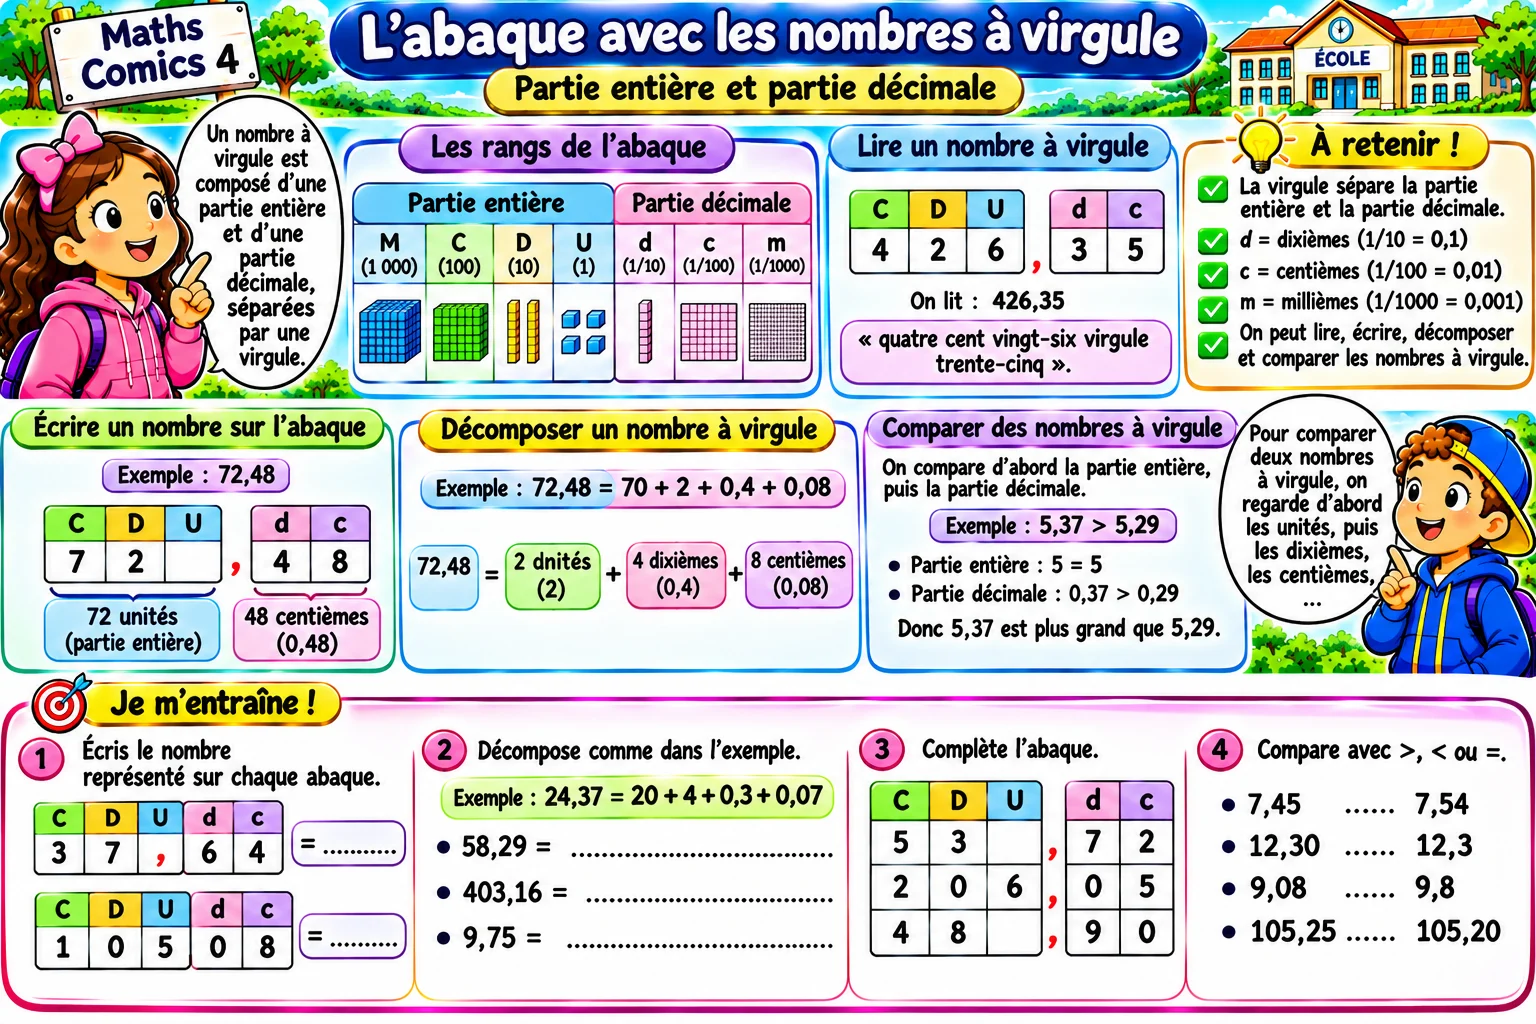
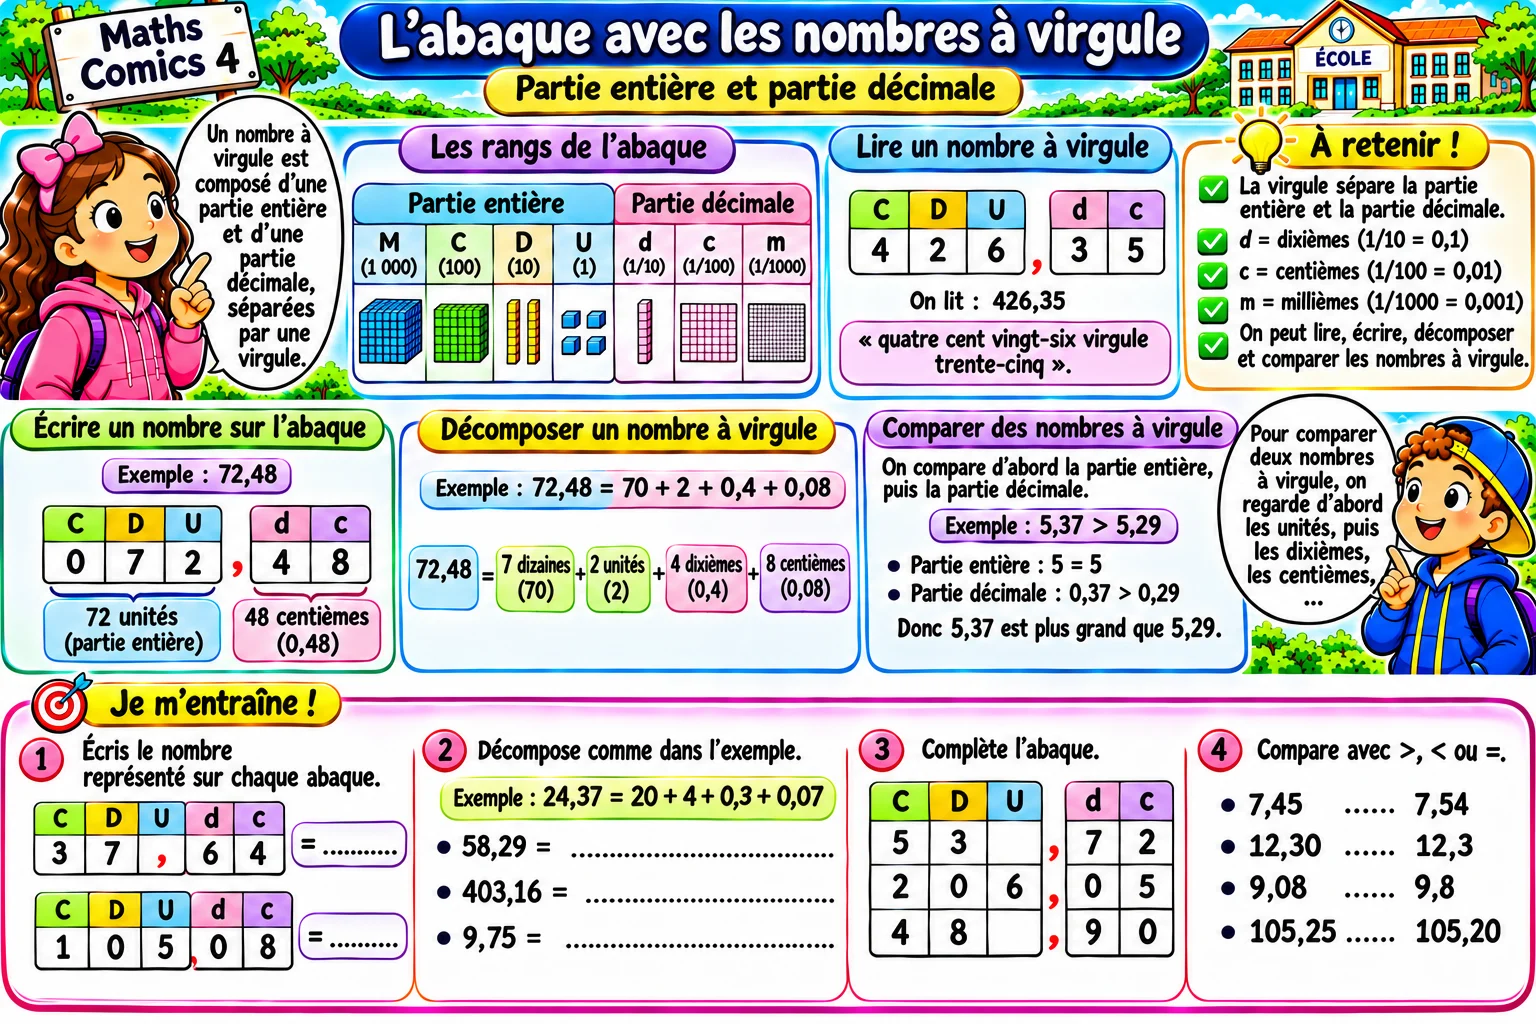
Sauvegarde source : BD unités
Claude-Session: https://claude.ai/code/session_01WScze2HsHiPfQiL7adKopW

Changed region(s): [[0.0, 0.0, 1.0, 1.0], [0.8125, 0.7812, 0.875, 0.875], [0.8125, 0.9062, 0.8438, 0.9375]]

diff --git a/soumaya-academy/src/js/grandeurs.js b/soumaya-academy/src/js/grandeurs.js
@@ -6,6 +6,7 @@ import * as S from './save.js';
 import * as Sfx from './sfx.js';
 import * as Voice from './voice.js';
 import { burst, shuffle, ri } from './workshop.js';
+import * as BD from './bd.js';
 
 const star = (n = 1) => { const b = S.get(); b.bonusStars = (b.bonusStars || 0) + n; b.coins += 2 * n; S.save(); };
 const ST = () => { const b = S.get(); b.abaqueG = b.abaqueG || { done: 0 }; return b.abaqueG; };
@@ -459,11 +460,25 @@ function astuces(body, talk) {
   talk('Voici les astuces : un seul chiffre par colonne, le chiffre des unités dans la colonne de l’unité, puis on déplace la virgule ou on ajoute des zéros.');
 }
 
+
+// ---------- la BD « Maths Comics 4 – Les unités de mesure » (image fournie par Papa) ----------
+const BD_UM = ['On mesure des longueurs, des masses et des capacités avec des unités. Les unités sont rangées dans un tableau : chaque passage d’une colonne à l’autre multiplie ou divise par 10 !',
+  'La règle à retenir : vers la droite, on multiplie par 10, l’unité devient 10 fois plus petite. Vers la gauche, on divise par 10, l’unité devient 10 fois plus grande.',
+  'La longueur : kilomètre, hectomètre, décamètre, mètre, décimètre, centimètre, millimètre. 1 mètre égale 100 centimètres. 1 kilomètre égale 1 000 mètres.',
+  'La masse : kilogramme, hectogramme, décagramme, gramme, décigramme, centigramme, milligramme. 1 kilogramme égale 1 000 grammes.',
+  'La capacité : kilolitre, hectolitre, décalitre, litre, décilitre, centilitre, millilitre. 1 litre égale 100 centilitres.',
+  'Des exemples : 3,5 mètres égale 350 centimètres. 2 400 millimètres égale 2,4 mètres. 4,2 kilogrammes égale 4 200 grammes. 750 grammes égale 0,75 kilogramme. 3 litres égale 300 centilitres. 450 millilitres égale 0,45 litre.'];
+function bdUnites(body, talk) {
+  BD.show(body, talk, { img: 'assets/bd/comics4-unites-mesure.webp', title: 'Maths Comics 4 – Les unités de mesure', alt: 'BD : les tableaux de longueur, de masse et de capacité, la règle × 10 et ÷ 10 et des conversions', lines: BD_UM,
+    question: ['Je m’entraîne : 5 m ; 720 cm ; 2,5 kg ; 4 500 g ; 6 L ; 350 mL. Et vrai ou faux : 1,2 m = 120 cm ; 3 kg = 300 g ; 1 L = 1 000 mL ; 50 cL = 0,5 L ; 4 000 mm = 4 m.', '5 m = 500 cm ; 720 cm = 7,2 m ; 2,5 kg = 2 500 g ; 4 500 g = 4,5 kg ; 6 L = 600 cL ; 350 mL = 0,35 L. Vrai ou faux : vrai ; faux (3 kg = 3 000 g) ; vrai ; vrai ; vrai.'],
+    after: 'Ensuite, va dans « Convertir avec l’abaque » pour t’entraîner !' });
+}
+
 export function open(tab = 'astuces') {
   const say = h('div', { class: 'be-say cc-say', 'aria-live': 'polite' });
   const talk = (s, v = true) => { say.textContent = s; if (v) Voice.speak(s); };
   const body = h('div');
-  const T = [['astuces', '💡 Astuces', astuces], ['placer', '✍ Placer', placer], ['abaque', '📊 Convertir avec l’abaque', convertirAbaque], ['tete', '🧠 Convertir de tête', convertir], ['comparer', '⚖ Comparer', comparer],
+  const T = [['bd', '📖 La BD', bdUnites], ['astuces', '💡 Astuces', astuces], ['placer', '✍ Placer', placer], ['abaque', '📊 Convertir avec l’abaque', convertirAbaque], ['tete', '🧠 Convertir de tête', convertir], ['comparer', '⚖ Comparer', comparer],
     ['ranger', '🔢 Le plus grand ?', ranger], ['unite', '🎯 La bonne unité', unite], ['probleme', '🧩 Problèmes', probleme],
     ['pichet', '🧪 Le pichet gradué', pichet], ['unitem', '❓ L’unité qui manque', uniteManquante], ['addition', '➕ Additionner', addition], ['relier', '🔗 Relier', relier], ['eval', '📝 Évaluation', evaluation],
     ['mesurer', '📏 Mesurer à la règle', mesurer], ['tracer', '✏ Tracer', tracer], ['egal', '🟰 Compléter les égalités', egalites], ['evall', '⭐ Évaluation longueurs', evalLongueurs], ['masses', '⚖ Les masses (t, q, kg…)', masses]];
